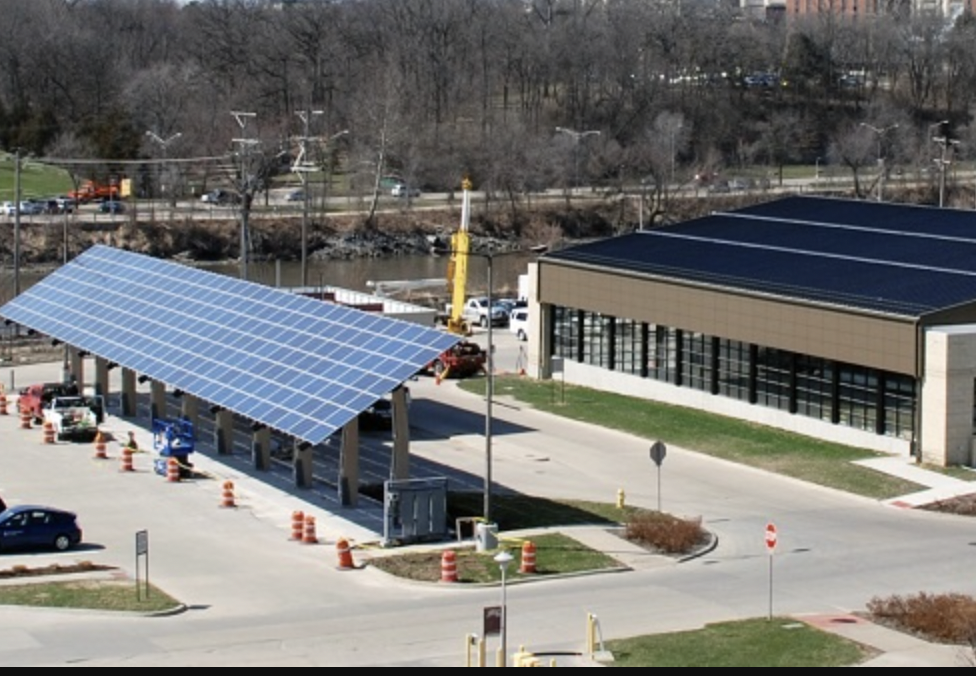
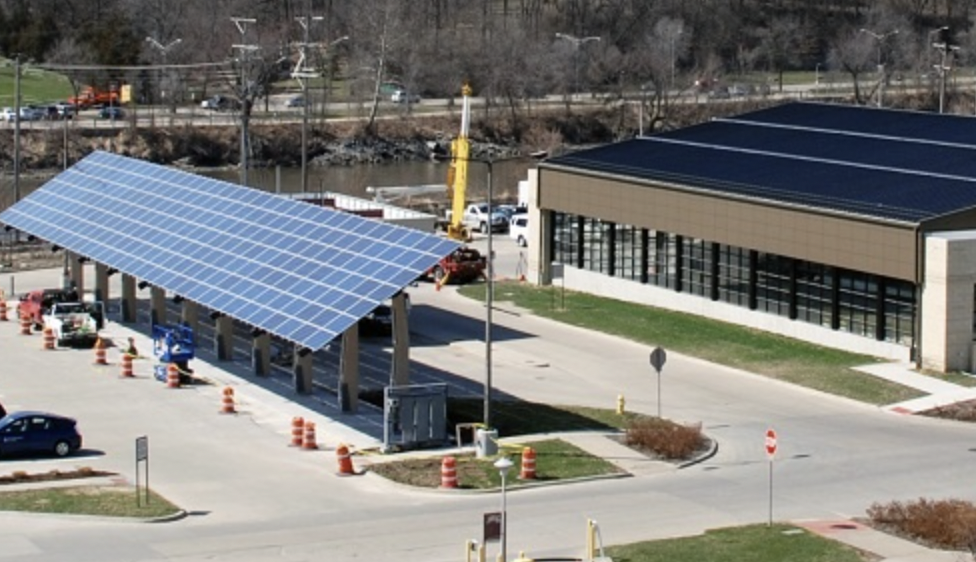
resized the picture

diff --git a/html/index.html b/html/index.html
@@ -26,7 +26,7 @@
     </div>
     <div>
         <pic>
-        <img src="./Assets/EVSA.png" alt="EVSA" width="500" height="350">
+        <img src="./Assets/EVSA.png" alt="EVSA" width="732" height="421.5">
         </pic>
     </div>
     
